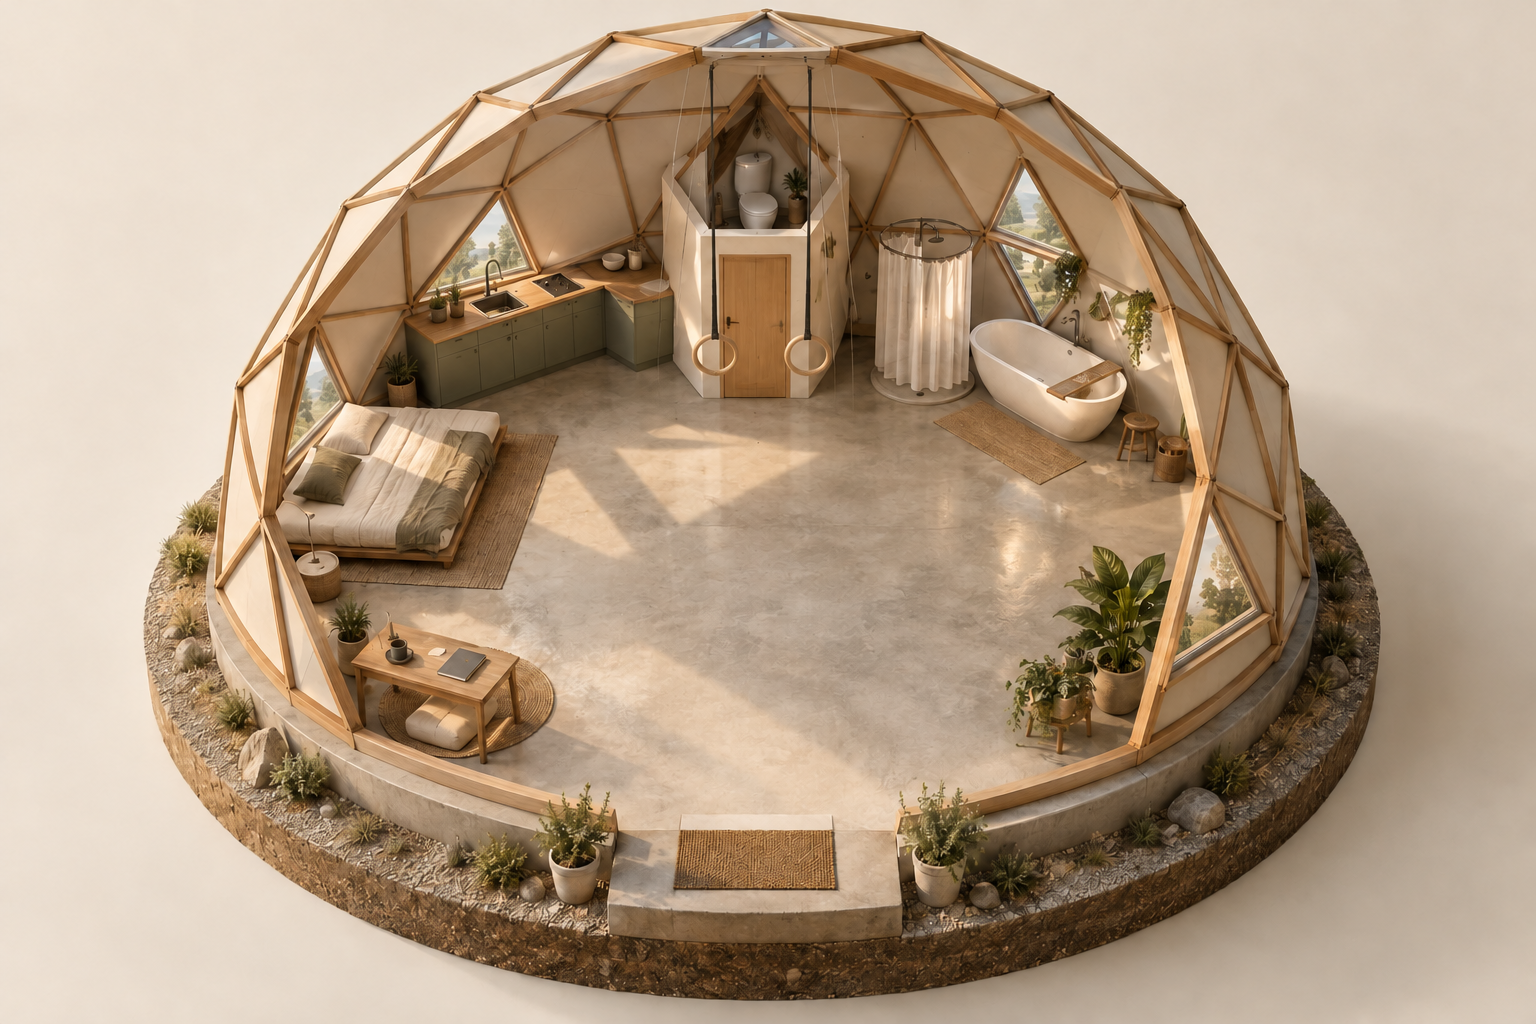
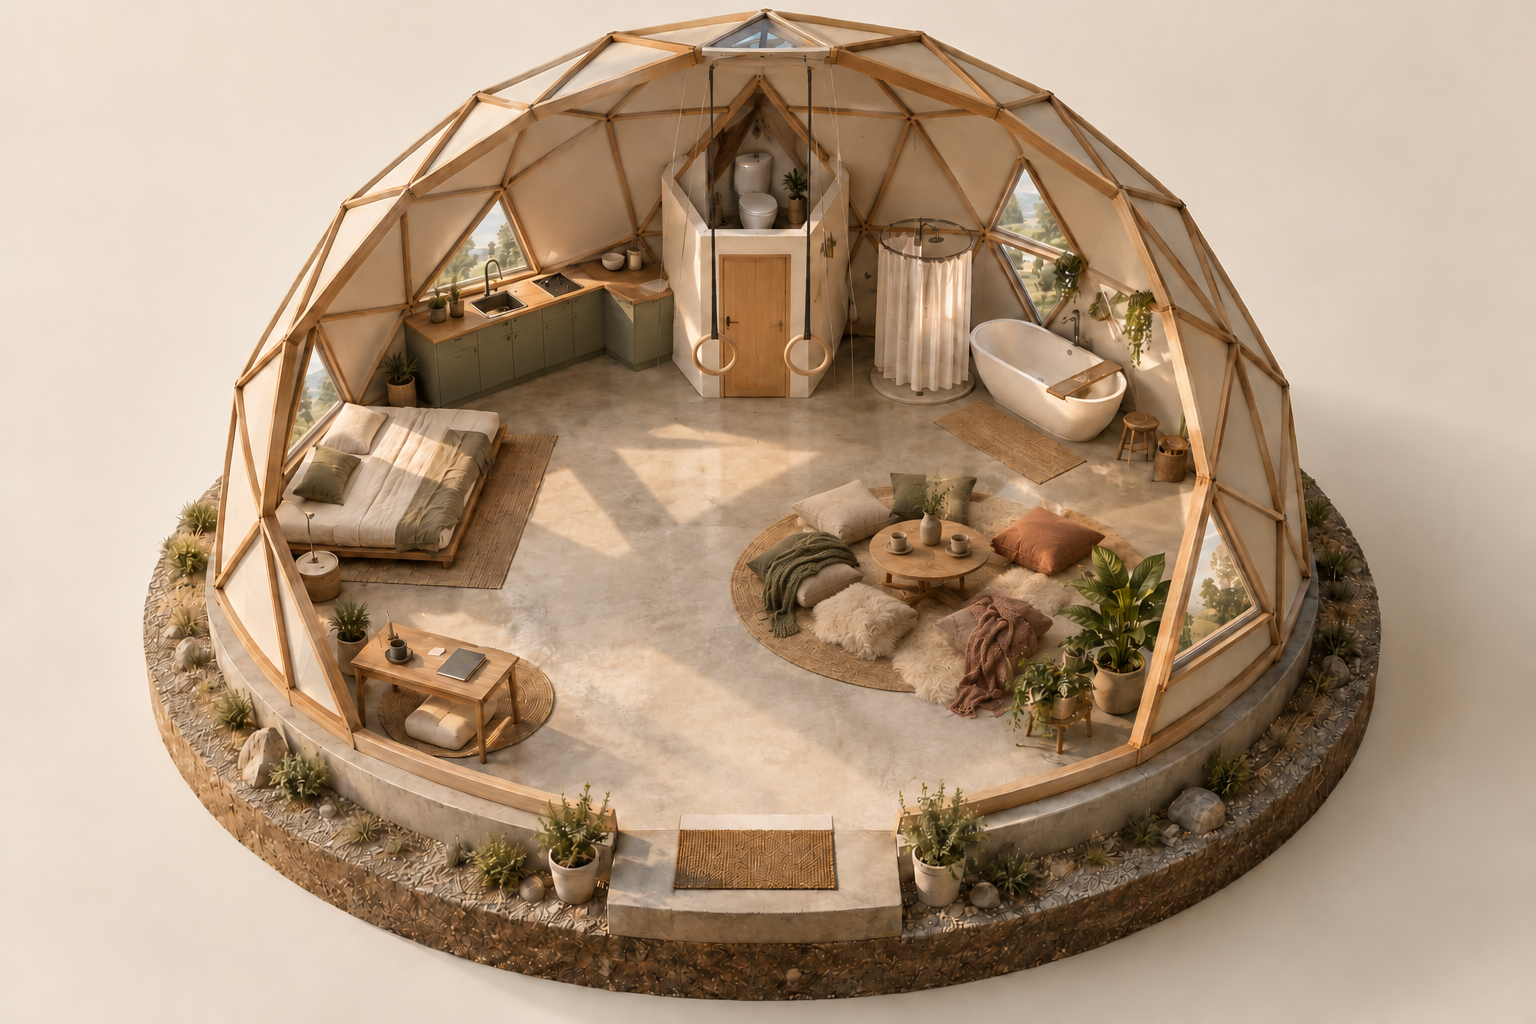
feat: furnish the dome gathering nook with soft floor seating
- Edit the room cutaway with a woven rug, pelts, cushions, throws, and a low table.
- Preserve the dome layout and clear entrance while aligning activity markers to the revised image.
- Update the socializing description, image alternative text, and generation credits.
- Record the exact built-in image editing prompt and input/output checksums.
- Verify the production build and interactive room preview.

diff --git a/src/lib/concepts.ts b/src/lib/concepts.ts
@@ -12,7 +12,7 @@ import commons from '../assets/concepts/2026-10-human-habitat/10-private-dome-sh
 export const concepts = {
   timber: { image: timber, number: '01', title: 'A habitat for an active body', alt: 'Warm timber dome with an open concrete floor, low bed, rings, kitchen, enclosed toilet, shower and sunlit tub.', caption: 'Daily life around the edge. Possibility in the middle.', note: 'A timber shell study with selective glazing and a compact service zone.' },
   bathing: { image: bathing, number: '02', title: 'Bathing in the light', alt: 'A freestanding tub and curtained shower share a textured wet area beside an opaque toilet enclosure.', caption: 'An open bath. A curtain when you want one. A door where it matters.', note: 'The wet zone needs drainage, waterproofing, a slip-resistant surface and outdoor extraction.' },
-  cutaway: { image: cutaway, number: '03', title: 'One room, many ways to live', alt: 'Dollhouse cutaway with cooking, bathing, sleeping and working at the perimeter and movement space in the center.', caption: 'One generous room, with a small private toilet enclosure.', note: 'The toilet ceiling is removed to reveal the compartment in this cutaway. Dimensions and entry details remain exploratory.' },
+  cutaway: { image: cutaway, number: '03', title: 'One room, many ways to live', alt: 'Dollhouse cutaway with kitchen, bath, low bed and desk around an open movement floor, plus a gathering nook with a woven rug, soft pelts, cushions, throws and a low table.', caption: 'An open center. A soft place to gather. A private toilet enclosure.', note: 'The toilet ceiling is removed to reveal the compartment in this cutaway. Dimensions and entry details remain exploratory.' },
   exterior: { image: exterior, number: '04', title: 'A shell in a living landscape', alt: 'An ivory faceted mineral dome with triangular windows and a timber entrance in a leafy garden.', caption: 'A sheltered place within a living landscape.', note: 'Inspired by Geoship’s work on bioceramic domes. This is an independent concept, not a Geoship product rendering.' },
   mineral: { image: mineral, number: '05', title: 'A quieter material language', alt: 'Pale mineral triangular facets, a low slatted bed, a tub, sparse furnishings and a clear concrete floor.', caption: 'Mineral surfaces, soft light, a few things made of wood.', note: 'Inspired by Geoship’s bioceramic dome work. The assembly and attachments are conceptual; material performance has not been established by the image.' },
   attachments: { image: attachments, number: '06', title: 'A place to attach things', alt: 'Conceptual geodesic node fitting, suspended planter and shelf, and gymnastic rings on a separate overhead support.', caption: 'A family of fixtures that can change with your life.', note: 'Illustrative, unrated hardware. Human suspension requires a separately engineered load path and clearances.' },
